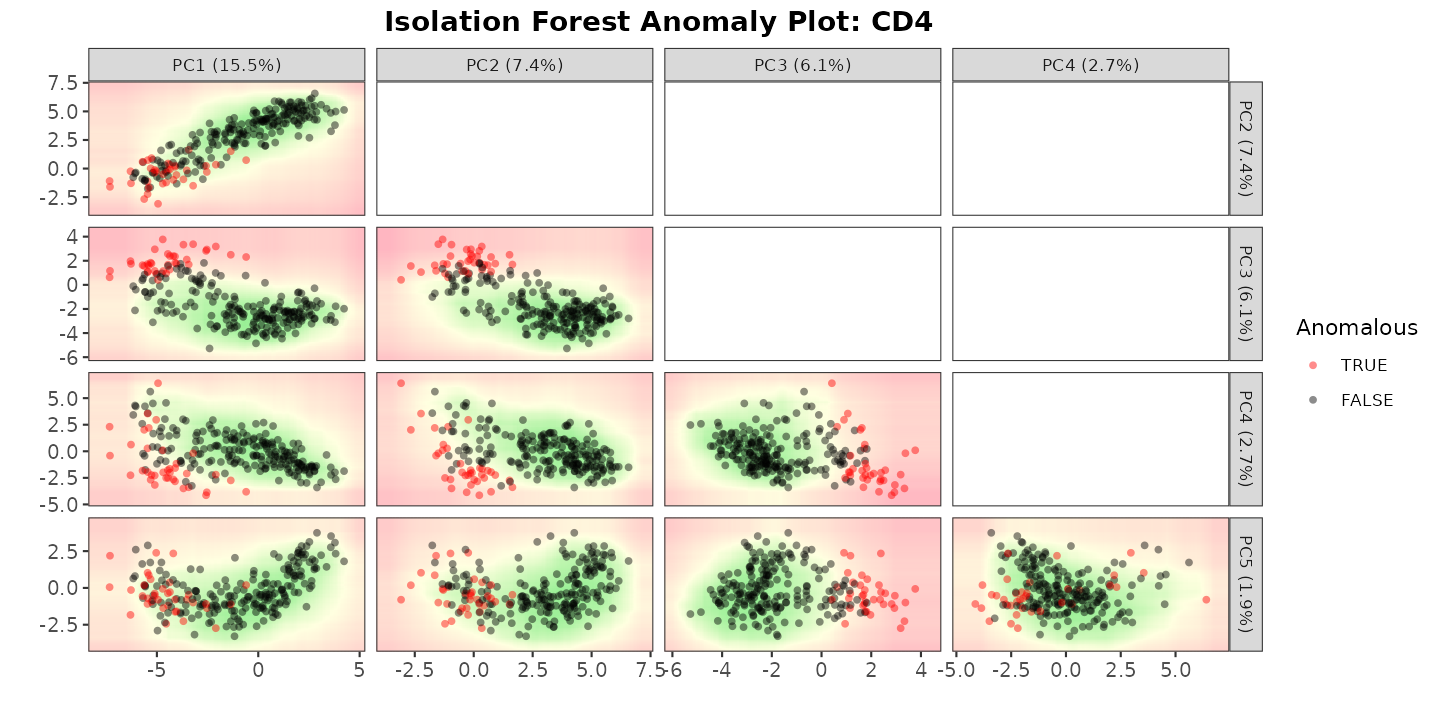
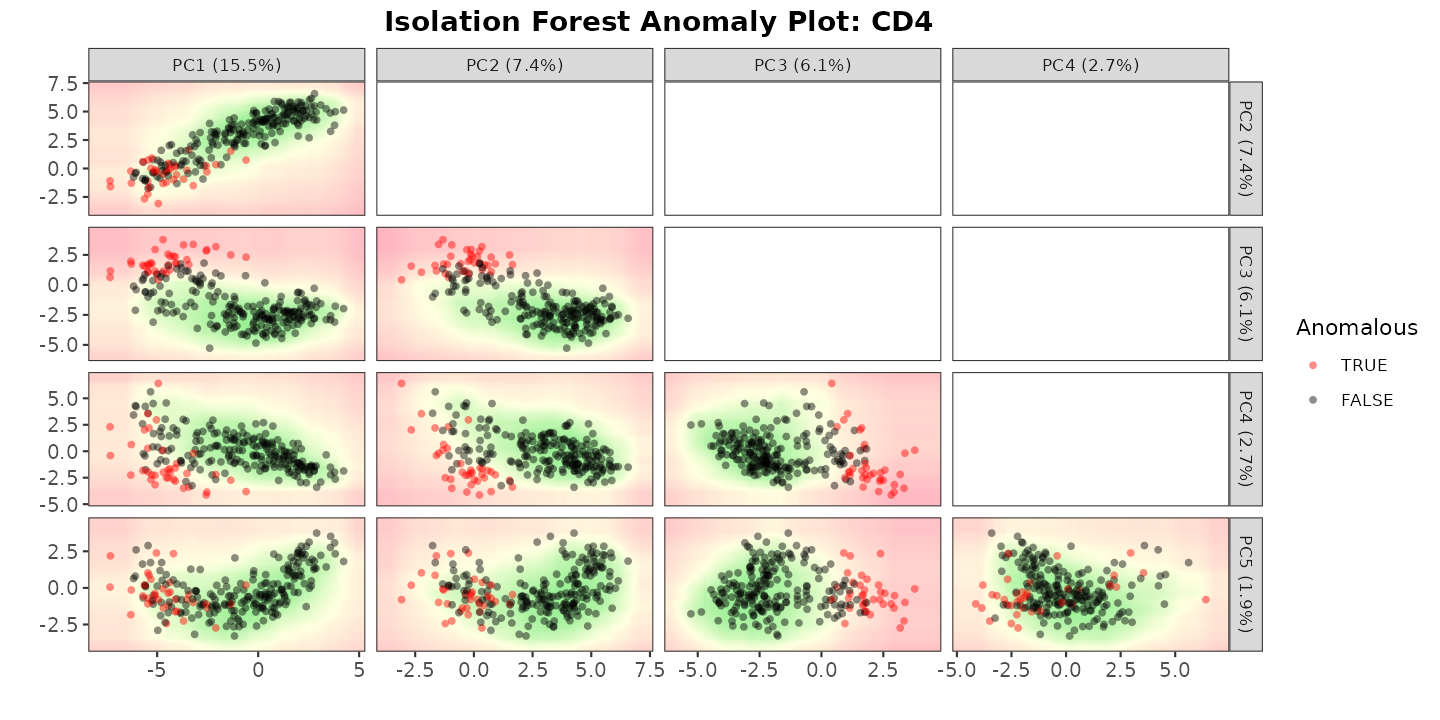
Deploying to gh-pages from @ AnthonyChristidis/scDiagnostics@5820363ed5aace1503bec0d2b723ef70075a39ba 🚀

diff --git a/reference/calculateDiscriminantSpace.html b/reference/calculateDiscriminantSpace.html
@@ -236,8 +236,8 @@ and datasets. For boxplot, the distribution of the projected data values for eac
 <span class="r-in"><span><span class="co"># Generate scatter and boxplot</span></span></span>
 <span class="r-in"><span><span class="fu"><a href="https://rdrr.io/r/graphics/plot.default.html" class="external-link">plot</a></span><span class="op">(</span><span class="va">disc_output</span>, plot_type <span class="op">=</span> <span class="st">"scatterplot"</span><span class="op">)</span></span></span>
 <span class="r-plt img"><img src="calculateDiscriminantSpace-1.png" alt="" width="700" height="433"></span>
-<span class="r-in"><span><span class="fu"><a href="https://rdrr.io/r/graphics/plot.default.html" class="external-link">plot</a></span><span class="op">(</span><span class="va">disc_output</span>, cell_types <span class="op">=</span> <span class="st">"CD4-CD8"</span>, plot_type <span class="op">=</span> <span class="st">"boxplot"</span><span class="op">)</span></span></span>
-<span class="r-err co"><span class="r-pr">#&gt;</span> <span class="error">Error in plot.calculateDiscriminantSpaceObject(disc_output, cell_types = "CD4-CD8",     plot_type = "boxplot"):</span> There are no combinations of the 'cell_types' to plot.</span>
+<span class="r-in"><span><span class="fu"><a href="https://rdrr.io/r/graphics/plot.default.html" class="external-link">plot</a></span><span class="op">(</span><span class="va">disc_output</span>, cell_types <span class="op">=</span> <span class="fu"><a href="https://rdrr.io/r/base/c.html" class="external-link">c</a></span><span class="op">(</span><span class="st">"CD4"</span>, <span class="st">"CD8"</span><span class="op">)</span>, plot_type <span class="op">=</span> <span class="st">"boxplot"</span><span class="op">)</span></span></span>
+<span class="r-plt img"><img src="calculateDiscriminantSpace-2.png" alt="" width="700" height="433"></span>
 <span class="r-in"><span></span></span>
 <span class="r-in"><span><span class="co"># Check comparison</span></span></span>
 <span class="r-in"><span><span class="fu"><a href="https://rdrr.io/r/base/table.html" class="external-link">table</a></span><span class="op">(</span>Expert_Annotation <span class="op">=</span> <span class="va">query_data</span><span class="op">$</span><span class="va">expert_annotation</span>, SingleR <span class="op">=</span> <span class="va">query_data</span><span class="op">$</span><span class="va">SingleR_annotation</span><span class="op">)</span></span></span>

diff --git a/reference/detectAnomaly.html b/reference/detectAnomaly.html
@@ -238,7 +238,7 @@ intuitive interpretation of regions with high or low anomaly scores.</p>
 <span class="r-in"><span><span class="co"># Plot the output for a cell type</span></span></span>
 <span class="r-in"><span><span class="fu"><a href="https://rdrr.io/r/graphics/plot.default.html" class="external-link">plot</a></span><span class="op">(</span><span class="va">anomaly_output</span>,</span></span>
 <span class="r-in"><span>     cell_type <span class="op">=</span> <span class="st">"CD4"</span>,</span></span>
-<span class="r-in"><span>     pc_subset <span class="op">=</span> <span class="fl">1</span><span class="op">:</span><span class="fl">5</span>,</span></span>
+<span class="r-in"><span>     pc_subset <span class="op">=</span> <span class="fl">1</span><span class="op">:</span><span class="fl">3</span>,</span></span>
 <span class="r-in"><span>     data_type <span class="op">=</span> <span class="st">"query"</span><span class="op">)</span></span></span>
 <span class="r-plt img"><img src="detectAnomaly-1.png" alt="" width="700" height="433"></span>
 <span class="r-in"><span></span></span>
